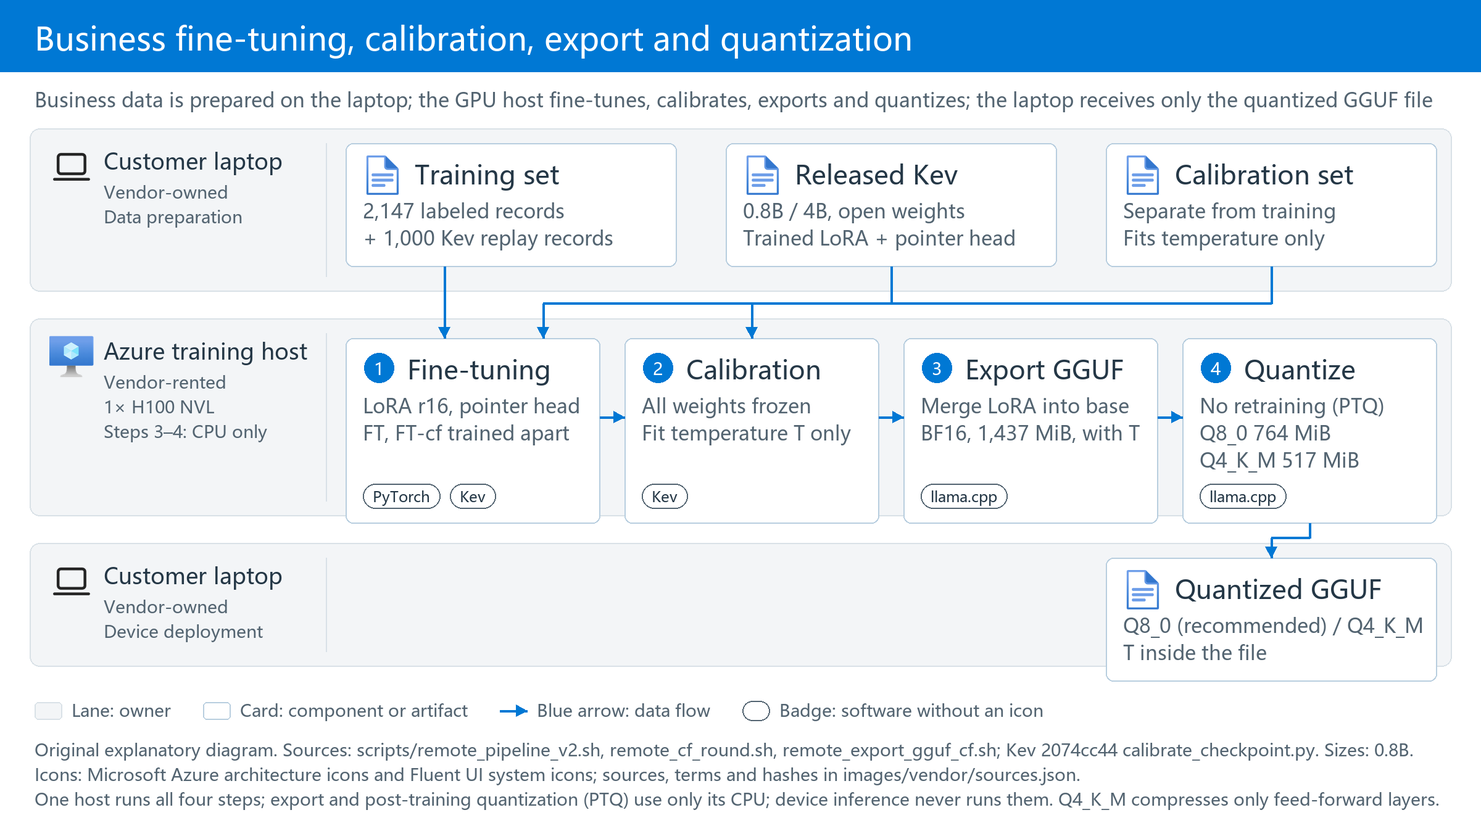
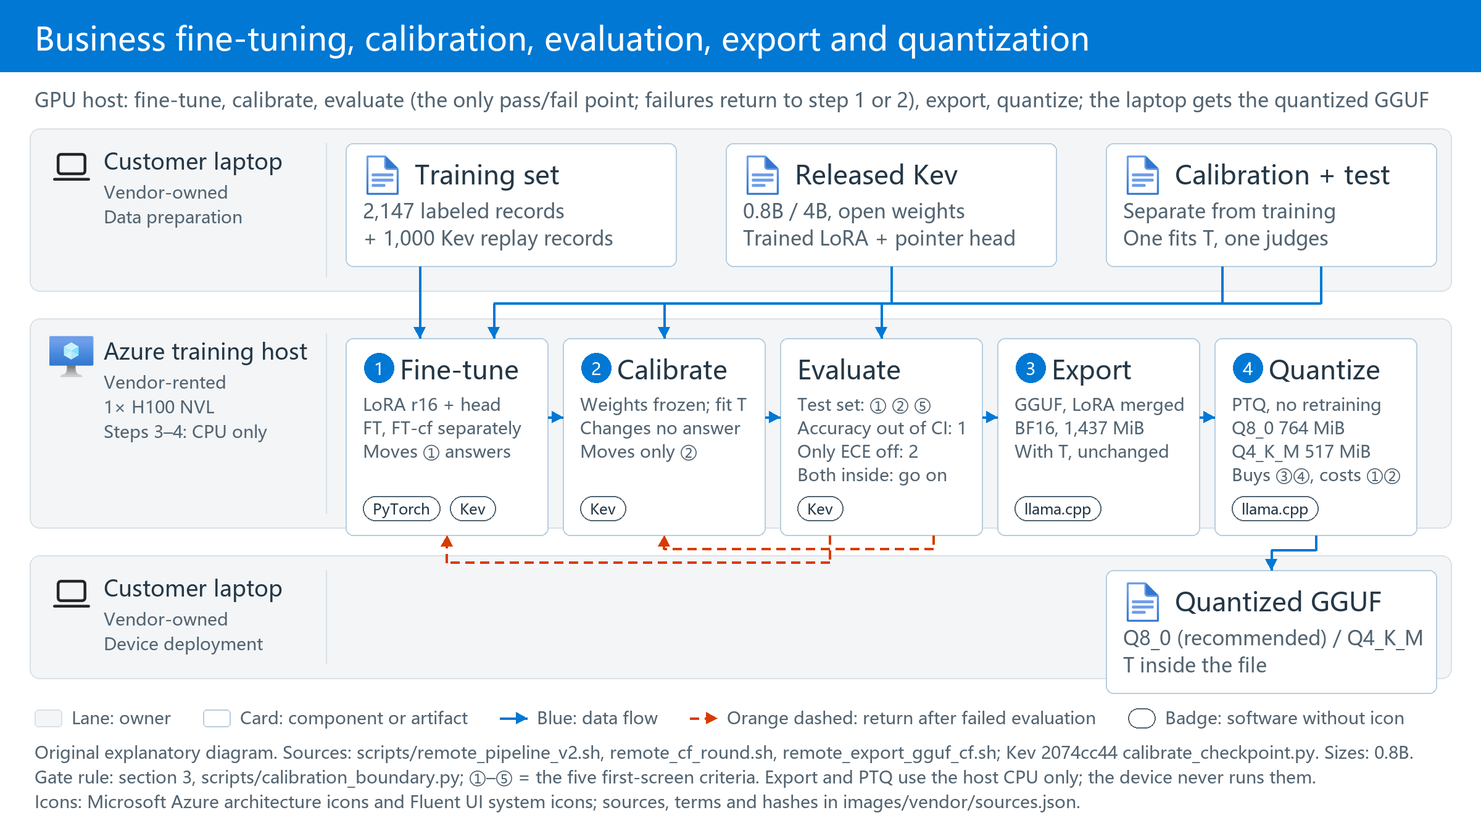
AIPC-Decision-Model-Finetune: training diagram shows the evaluation gate and its two return paths
- images/training(-en).png: between step 2 (calibration) and step 3 (export) an unnumbered
  'Evaluation gate' card measures criteria 1, 2 and 5 on the test set; orange dashed exits
  return to step 1 (accuracy outside its interval -> retrain) or step 2 (only probabilities
  off -> refit T); the blue path continues only when both are inside. Calibration itself has
  no pass/fail. Step cards name the criterion each moves; five 164 px cards, compact font.
- render_diagrams.py: dashed arrows, compact card variant, legend entry for return paths.
- README (CN/EN): first-section paragraph, alt text and caption describe the gate; four
  numbered steps unchanged. Other diagrams byte-identical.

diff --git a/Deep-Learning/AIPC-Decision-Model-Finetune/scripts/render_diagrams.py b/Deep-Learning/AIPC-Decision-Model-Finetune/scripts/render_diagrams.py
@@ -89,10 +89,12 @@ class Diagram:
             self.text((x, top + 42 + 20 * index), line, self.small_font, OWNER_DIVIDER - 8 - x, MUTED)
         self.draw.line([self.point(OWNER_DIVIDER, top + 12), self.point(OWNER_DIVIDER, bottom - 12)], fill=GREY, width=self.s)
 
-    def card(self, left, top, title, detail="", icon=None, badges=(), step=None, width=CARD_WIDTH, height=None, muted=False):
-        """One component or artifact: white card, optional ledgered icon or step number, one or two detail lines, text badges."""
+    def card(self, left, top, title, detail="", icon=None, badges=(), step=None, width=CARD_WIDTH, height=None, muted=False, compact=False):
+        """One component or artifact: white card, optional ledgered icon or step number, one or two detail lines, text badges.
+        compact=True sets detail lines in the 14 px small font at 19 px leading, for narrow cards (five across a lane)."""
         lines = [line for line in detail.split("\n") if line]
-        height = height or 56 + 22 * len(lines) + (28 if badges else 0)
+        detail_font, leading = (self.small_font, 19) if compact else (self.detail_font, 22)
+        height = height or 56 + leading * len(lines) + (28 if badges else 0)
         outline = GREY if muted else CARD_LINE
         self.draw.rounded_rectangle(self.box(left, top, left + width, top + height), radius=6 * self.s, fill="white", outline=outline, width=self.s)
         x = left + 14
@@ -103,10 +105,10 @@ class Diagram:
             cx, cy, r = left + 27, top + 24, 12
             self.draw.ellipse(self.box(cx - r, cy - r, cx + r, cy + r), fill=BLUE)
             self.draw.text(self.point(cx - self.width_of(step, self.small_font) / 2, cy - 9), step, font=self.small_font, fill="white")
-            x = left + 50
-        self.text((x, top + 11), title, self.node_font, left + width - x - 10, MUTED if muted else INK)
+            x = left + (44 if compact else 50)
+        self.text((x, top + 11), title, self.node_font, left + width - x - (6 if compact else 10), MUTED if muted else INK)
         for index, line in enumerate(lines):
-            self.text((left + 14, top + 44 + 22 * index), line, self.detail_font, width - 24, MUTED)
+            self.text((left + 14, top + 44 + leading * index), line, detail_font, width - 24, MUTED)
         bx, by = left + 14, top + height - 32
         for badge in badges:
             bw = self.width_of(badge, self.badge_font) + 16
@@ -115,9 +117,20 @@ class Diagram:
             bx += bw + 8
         return (left, top, left + width, top + height)
 
-    def arrow(self, points, color=BLUE, head=True):
+    def arrow(self, points, color=BLUE, head=True, dashed=False):
         scaled = [self.point(*point) for point in points]
-        self.draw.line(scaled, fill=color, width=2 * self.s, joint="curve")
+        if dashed:
+            dash, gap = 7 * self.s, 5 * self.s
+            for (x0, y0), (x1, y1) in zip(scaled, scaled[1:]):
+                length = math.hypot(x1 - x0, y1 - y0)
+                ux, uy = ((x1 - x0) / length, (y1 - y0) / length) if length else (0, 0)
+                run = 0
+                while run < length:
+                    stop = min(run + dash, length)
+                    self.draw.line([(x0 + ux * run, y0 + uy * run), (x0 + ux * stop, y0 + uy * stop)], fill=color, width=2 * self.s)
+                    run = stop + gap
+        else:
+            self.draw.line(scaled, fill=color, width=2 * self.s, joint="curve")
         if head:
             previous, end = scaled[-2:]
             angle = math.atan2(end[1] - previous[1], end[0] - previous[0])
@@ -126,7 +139,7 @@ class Diagram:
             self.draw.polygon(triangle, fill=color)
 
     def legend(self, top, items):
-        """items: (kind, label) with kind in lane | card | arrow | score | read | badge."""
+        """items: (kind, label) with kind in lane | card | arrow | score | read | back | badge."""
         x = 28
         for kind, label in items:
             if kind == "lane":
@@ -135,6 +148,8 @@ class Diagram:
                 self.draw.rounded_rectangle(self.box(x, top + 3, x + 22, top + 17), radius=3 * self.s, fill="white", outline=CARD_LINE, width=self.s)
             elif kind == "badge":
                 self.draw.rounded_rectangle(self.box(x, top + 2, x + 22, top + 18), radius=8 * self.s, fill="white", outline=MUTED, width=self.s)
+            elif kind == "back":
+                self.arrow([(x, top + 10), (x + 22, top + 10)], color=READ, dashed=True)
             else:
                 self.arrow([(x, top + 10), (x + 22, top + 10)], color={"score": SCORE_GREY, "read": READ}.get(kind, BLUE))
             self.text((x + 30, top), label, self.small_font, 360, MUTED)
@@ -166,41 +181,53 @@ ICON_NOTE = ("图标：Microsoft Azure 架构图标与 Fluent UI 系统图标，
 
 
 def training(font_path, language="zh"):
-    """Four numbered steps on the GPU host: supervised fine-tuning -> temperature calibration -> GGUF export (BF16) ->
-    post-training quantization (Q8_0 / Q4_K_M). Only the quantized file reaches the laptop.
-    Facts: scripts/remote_pipeline_v2.sh, remote_cf_round.sh, remote_export_gguf_cf.sh; sizes from 验证结果/微调评测_20261027-220226/gguf/0.8b-cf."""
+    """Four numbered steps on the GPU host: supervised fine-tuning -> temperature calibration -> [evaluation gate] ->
+    GGUF export (BF16) -> post-training quantization (Q8_0 / Q4_K_M). The unnumbered evaluation card is the only
+    pass/fail point: its dashed exits return to step 1 (accuracy fell out of its interval) or step 2 (probabilities
+    off, answers fine). Only the quantized file reaches the laptop.
+    Facts: scripts/remote_pipeline_v2.sh, remote_cf_round.sh, remote_export_gguf_cf.sh; sizes from 验证结果/微调评测_20261027-220226/gguf/0.8b-cf;
+    gate rule from README section 3 / scripts/calibration_boundary.py."""
     label = lambda chinese, english: english if language == "en" else chinese
-    d = Diagram(label("业务微调、校准、导出与量化", "Business fine-tuning, calibration, export and quantization"),
-                label("业务数据在笔记本准备；GPU 主机依次完成微调、校准、导出和量化；笔记本只拿到量化后的 GGUF 文件", "Business data is prepared on the laptop; the GPU host fine-tunes, calibrates, exports and quantizes; the laptop receives only the quantized GGUF file"), font_path)
+    d = Diagram(label("业务微调、校准、评测、导出与量化", "Business fine-tuning, calibration, evaluation, export and quantization"),
+                label("GPU 主机依次微调、校准；评测是唯一判定点，不过回第 1 或第 2 步，通过才导出、量化；笔记本只拿到量化后的 GGUF",
+                      "GPU host: fine-tune, calibrate, evaluate (the only pass/fail point; failures return to step 1 or 2), export, quantize; the laptop gets the quantized GGUF"), font_path)
     c1, c2, c3 = CARD_LEFT, CARD_LEFT + CARD_STEP, CARD_LEFT + 2 * CARD_STEP
     d.lane(104, 236, label("客户笔记本", "Customer laptop"), label("厂商所有\n数据准备", "Vendor-owned\nData preparation"), icon="laptop")
     d.card(c1, 116, label("业务训练集", "Training set"), label("标注样本 2,147 条\n+ 1,000 条 Kev 回放", "2,147 labeled records\n+ 1,000 Kev replay records"), icon="file")
     d.card(c2, 116, label("Kev 发布版", "Released Kev"), label("0.8B / 4B，开放权重\n已训练的 LoRA + 指针头", "0.8B / 4B, open weights\nTrained LoRA + pointer head"), icon="file")
-    d.card(c3, 116, label("校准集", "Calibration set"), label("与训练样本分开\n只用于拟合温度", "Separate from training\nFits temperature only"), icon="file")
-    # four equal steps in the host lane: 4 x 206 px cards with 20 px gaps fill CARD_LEFT..LANE_RIGHT-16 (280..1160)
-    sw, sg, sh = 206, 20, 150   # equal card height: three detail lines + one badge row
-    s1, s2, s3, s4 = (CARD_LEFT + index * (sw + sg) for index in range(4))
-    d.lane(258, 418, label("Azure 训练主机", "Azure training host"), label("厂商租用\n1× H100 NVL\n3–4 只用 CPU", "Vendor-rented\n1× H100 NVL\nSteps 3–4: CPU only"), icon="azure-vm")
-    d.card(s1, 274, label("监督微调", "Fine-tuning"), label("LoRA r16 + 指针头\nFT 与 FT-cf 独立训练", "LoRA r16, pointer head\nFT, FT-cf trained apart"), step="1", width=sw, height=sh, badges=("PyTorch", "Kev"))
-    d.card(s2, 274, label("温度校准", "Calibration"), label("固定全部权重\n只拟合温度 T", "All weights frozen\nFit temperature T only"), step="2", width=sw, height=sh, badges=("Kev",))
-    d.card(s3, 274, label("导出 GGUF", "Export GGUF"), label("合并 LoRA 进基座\nBF16，1,437 MiB，含 T", "Merge LoRA into base\nBF16, 1,437 MiB, with T"), step="3", width=sw, height=sh, badges=("llama.cpp",))
-    d.card(s4, 274, label("量化", "Quantize"), label("训练后量化，不重训\nQ8_0 764 MiB\nQ4_K_M 517 MiB", "No retraining (PTQ)\nQ8_0 764 MiB\nQ4_K_M 517 MiB"), step="4", width=sw, height=sh, badges=("llama.cpp",))
-    d.lane(440, 540, label("客户笔记本", "Customer laptop"), label("厂商所有\n端侧部署", "Vendor-owned\nDevice deployment"), icon="laptop")
-    d.card(c3, 452, label("量化后的 GGUF", "Quantized GGUF"), label("Q8_0（推荐）/ Q4_K_M\n温度在文件内", "Q8_0 (recommended) / Q4_K_M\nT inside the file"), icon="file")
+    d.card(c3, 116, label("校准集 + 测试集", "Calibration + test"), label("与训练样本分开\n校准集拟 T，测试集验收", "Separate from training\nOne fits T, one judges"), icon="file")
+    # five equal cards in the host lane: 5 x 164 px with 12 px gaps fill CARD_LEFT..LANE_RIGHT-16 (280..1160); compact detail font
+    sw, sg, sh = 164, 12, 160   # equal card height: four compact detail lines + one badge row
+    s1, s2, s3, s4, s5 = (CARD_LEFT + index * (sw + sg) for index in range(5))
+    d.lane(258, 428, label("Azure 训练主机", "Azure training host"), label("厂商租用\n1× H100 NVL\n3–4 只用 CPU", "Vendor-rented\n1× H100 NVL\nSteps 3–4: CPU only"), icon="azure-vm")
+    d.card(s1, 274, label("监督微调", "Fine-tune"), label("LoRA r16 + 指针头\nFT / FT-cf 独立训练\n推动 ① 答案对不对", "LoRA r16 + head\nFT, FT-cf separately\nMoves ① answers"), step="1", width=sw, height=sh, badges=("PyTorch", "Kev"), compact=True)
+    d.card(s2, 274, label("温度校准", "Calibrate"), label("权重不动，只拟一个 T\n不改任何一题答案\n只动 ② 把握真不真", "Weights frozen; fit T\nChanges no answer\nMoves only ②"), step="2", width=sw, height=sh, badges=("Kev",), compact=True)
+    d.card(s3, 274, label("评测验收", "Evaluate"), label("测试集量 ① ② ⑤\n准确率掉出区间→回 1\n只有概率偏差 → 回 2\n都在区间内 → 往下", "Test set: ① ② ⑤\nAccuracy out of CI: 1\nOnly ECE off: 2\nBoth inside: go on"), width=sw, height=sh, badges=("Kev",), compact=True)
+    d.card(s4, 274, label("导出 GGUF", "Export"), label("合并 LoRA 进基座\nBF16，1,437 MiB\n含 T，不改任何值", "GGUF, LoRA merged\nBF16, 1,437 MiB\nWith T, unchanged"), step="3", width=sw, height=sh, badges=("llama.cpp",), compact=True)
+    d.card(s5, 274, label("量化", "Quantize"), label("训练后量化，不重训\nQ8_0 764 MiB\nQ4_K_M 517 MiB\n换 ③④，付一点 ①②", "PTQ, no retraining\nQ8_0 764 MiB\nQ4_K_M 517 MiB\nBuys ③④, costs ①②"), step="4", width=sw, height=sh, badges=("llama.cpp",), compact=True)
+    d.lane(450, 550, label("客户笔记本", "Customer laptop"), label("厂商所有\n端侧部署", "Vendor-owned\nDevice deployment"), icon="laptop")
+    d.card(c3, 462, label("量化后的 GGUF", "Quantized GGUF"), label("Q8_0（推荐）/ Q4_K_M\n温度在文件内", "Q8_0 (recommended) / Q4_K_M\nT inside the file"), icon="file")
     mid2, mid3 = c2 + CARD_WIDTH / 2, c3 + CARD_WIDTH / 2
-    d.arrow([(c1 + 80, 216), (c1 + 80, 274)])                                      # training set -> fine-tuning
-    d.arrow([(mid2, 216), (mid2, 246), (c1 + 160, 246), (c1 + 160, 274)])          # released Kev -> fine-tuning (--init_from)
-    d.arrow([(mid3, 216), (mid3, 246), (s2 + sw / 2, 246), (s2 + sw / 2, 274)])    # calibration set -> calibration
+    d.arrow([(c1 + 60, 216), (c1 + 60, 274)])                                      # training set -> fine-tuning
+    d.arrow([(mid2, 216), (mid2, 246), (c1 + 120, 246), (c1 + 120, 274)])          # released Kev -> fine-tuning (--init_from)
+    d.arrow([(mid3 - 40, 216), (mid3 - 40, 246), (s2 + sw / 2, 246), (s2 + sw / 2, 274)])   # calibration set -> calibration
+    d.arrow([(mid3 + 40, 216), (mid3 + 40, 246), (s3 + sw / 2, 246), (s3 + sw / 2, 274)])   # test set -> evaluation gate
     d.arrow([(s1 + sw, 338), (s2, 338)])
     d.arrow([(s2 + sw, 338), (s3, 338)])
     d.arrow([(s3 + sw, 338), (s4, 338)])
-    d.arrow([(s4 + sw / 2, 274 + sh), (s4 + sw / 2, 436), (mid3, 436), (mid3, 452)])  # quantized file -> laptop
-    d.legend(566, legend_items(label))
-    d.footnote(598, label("原创解释图。依据：scripts/remote_pipeline_v2.sh、remote_cf_round.sh、remote_export_gguf_cf.sh，Kev commit 2074cc44 的 calibrate_checkpoint.py；大小为 0.8B FT-cf。",
+    d.arrow([(s4 + sw, 338), (s5, 338)])
+    bottom = 274 + sh
+    d.arrow([(s3 + 40, bottom), (s3 + 40, bottom + 22), (s1 + sw / 2, bottom + 22), (s1 + sw / 2, bottom)], color=READ, dashed=True)   # accuracy fell -> retrain
+    d.arrow([(s3 + sw - 40, bottom), (s3 + sw - 40, bottom + 11), (s2 + sw / 2, bottom + 11), (s2 + sw / 2, bottom)], color=READ, dashed=True)   # probabilities off -> refit T
+    d.arrow([(s5 + sw / 2, bottom), (s5 + sw / 2, 446), (mid3, 446), (mid3, 462)])  # quantized file -> laptop
+    d.legend(572, [("lane", label("泳道：归属方", "Lane: owner")), ("card", label("卡片：组件或产物", "Card: component or artifact")),
+                   ("arrow", label("蓝色：数据流", "Blue: data flow")), ("back", label("橙色虚线：评测不通过时回到的步骤", "Orange dashed: return after failed evaluation")),
+                   ("badge", label("徽章：无图标的软件", "Badge: software without icon"))])
+    d.footnote(600, label("原创解释图。依据：scripts/remote_pipeline_v2.sh、remote_cf_round.sh、remote_export_gguf_cf.sh，Kev 2074cc44 calibrate_checkpoint.py；大小为 0.8B FT-cf。",
                           "Original explanatory diagram. Sources: scripts/remote_pipeline_v2.sh, remote_cf_round.sh, remote_export_gguf_cf.sh; Kev 2074cc44 calibrate_checkpoint.py. Sizes: 0.8B."),
-               label(*ICON_NOTE),
-               label("四步都在同一主机完成，导出和量化只用它的 CPU；端侧推理不会触发这些步骤。Q4_K_M 只压前馈层，注意力、DeltaNet 和指针头保持 8 bit。",
-                     "One host runs all four steps; export and post-training quantization (PTQ) use only its CPU; device inference never runs them. Q4_K_M compresses only feed-forward layers."))
+               label("评测验收的判定规则和门槛见第 3 节与 scripts/calibration_boundary.py；①–⑤ 指首屏的五项标准。导出和量化只用主机 CPU；端侧推理不触发这些步骤。Q4_K_M 只压前馈层。",
+                     "Gate rule: section 3, scripts/calibration_boundary.py; ①–⑤ = the five first-screen criteria. Export and PTQ use the host CPU only; the device never runs them."),
+               label(*ICON_NOTE))
     return d
 
 

diff --git a/Deep-Learning/AIPC-Decision-Model-Finetune/README.md b/Deep-Learning/AIPC-Decision-Model-Finetune/README.md
@@ -26,11 +26,11 @@ Four recipes are compared throughout; their names are fixed here. **B0** is the 
 
 #### 1. Fine-Tune, Calibrate, Export, Quantize: Business Data to a Model File
 
-Data preparation scripts run on the laptop. Large models A and B only help write simulated customer messages; business-policy code computes the labels. Neither generator is the Kev model being fine-tuned, and neither participates in subsequent device inference. The GPU host runs four steps in order: (1) supervised fine-tuning, which trains only the LoRA adapters and the pointer head; (2) temperature calibration, which leaves the weights unchanged and fits one scalar; (3) GGUF export, which merges the LoRA into the base in BF16; (4) quantization to Q8_0 or Q4_K_M. Steps 3 and 4 use only that host's CPU. The product is one quantized GGUF file, the single-file model format used by llama.cpp, holding weights, tokenizer, pointer head and calibration temperature together; everything that runs on the laptop and every device figure below uses this quantized file.
+Data preparation scripts run on the laptop. Large models A and B only help write simulated customer messages; business-policy code computes the labels. Neither generator is the Kev model being fine-tuned, and neither participates in subsequent device inference. The GPU host runs four steps in order: (1) supervised fine-tuning, which trains only the LoRA adapters and the pointer head; (2) temperature calibration, which leaves the weights unchanged and fits one scalar; (3) GGUF export, which merges the LoRA into the base in BF16; (4) quantization to Q8_0 or Q4_K_M. Steps 3 and 4 use only that host's CPU. Between (2) and (3) sits one evaluation gate, the pipeline's only pass/fail point: it measures accuracy and probability error on the test set; accuracy outside its interval goes back to step (1) for more data and retraining, probability error alone goes back to step (2) to refit T, and only when both are inside does the pipeline continue (rule and thresholds in [section 3](#3-calibration-correct-ranking-does-not-guarantee-reliable-probabilities)). Calibration itself has no pass/fail; it always produces a T. The product is one quantized GGUF file, the single-file model format used by llama.cpp, holding weights, tokenizer, pointer head and calibration temperature together; everything that runs on the laptop and every device figure below uses this quantized file.
 
-<img src="images/training-en.png" width="900" alt="Fine-tuning, calibration, export and quantization: labeled business data and released Kev enter an Azure GPU training host; four numbered steps are supervised fine-tuning, temperature calibration, BF16 GGUF export and quantization to Q8_0 / Q4_K_M; the quantized GGUF goes to the customer laptop; three ownership lanes, a legend and source footnote.">
+<img src="images/training-en.png" width="900" alt="Fine-tuning, calibration, evaluation, export and quantization: labeled business data and released Kev enter an Azure GPU training host; four numbered steps are supervised fine-tuning, temperature calibration, BF16 GGUF export and quantization to Q8_0 / Q4_K_M; between calibration and export sits an unnumbered evaluation-gate card whose two orange dashed exits return to fine-tuning (accuracy out of its interval) and to calibration (probabilities off only); the quantized GGUF goes to the customer laptop; three ownership lanes, a legend and source footnote.">
 
-*Original explanatory diagram. Training data updates model parameters; a separate calibration set fits the probability temperature, the scaling factor applied when raw model scores become probabilities, explained in [section 3](#3-calibration-correct-ranking-does-not-guarantee-reliable-probabilities). Quantization is post-training and needs no retraining; the effect of each variant is in [section 5](#5-laptop-inference-engine). The laptop receives the quantized GGUF file. Sources: [FT pipeline](scripts/remote_pipeline_v2.sh), [FT-cf pipeline](scripts/remote_cf_round.sh), [export and quantization script](scripts/remote_export_gguf_cf.sh). Official Microsoft icon sources and usage terms are recorded in [the icon ledger](images/vendor/sources.json).*
+*Original explanatory diagram. Training data updates model parameters; a separate calibration set fits the probability temperature, the scaling factor applied when raw model scores become probabilities, explained in [section 3](#3-calibration-correct-ranking-does-not-guarantee-reliable-probabilities). The evaluation gate is the only pass/fail point; ① ② ⑤ on its card are [the five criteria on the first screen](#criteria). Quantization is post-training and needs no retraining; the effect of each variant is in [section 5](#5-laptop-inference-engine). The laptop receives the quantized GGUF file. Sources: [FT pipeline](scripts/remote_pipeline_v2.sh), [FT-cf pipeline](scripts/remote_cf_round.sh), [export and quantization script](scripts/remote_export_gguf_cf.sh). Official Microsoft icon sources and usage terms are recorded in [the icon ledger](images/vendor/sources.json).*
 
 #### 2. Device Inference: A Model File to a Business Decision
 

diff --git a/Deep-Learning/AIPC-Decision-Model-Finetune/README_CN.md b/Deep-Learning/AIPC-Decision-Model-Finetune/README_CN.md
@@ -26,11 +26,11 @@
 
 #### 1. 微调、校准、导出、量化：把业务数据变成模型文件
 
-数据准备脚本在笔记本上运行。大模型 A/B 只帮助生成模拟原话，标签由业务规则代码计算；它们既不是被微调的 Kev，也不参与后续端侧推理。GPU 主机上依次做四步：① 监督微调（只训 LoRA 和指针头）；② 温度校准（权重不动，只拟合一个标量）；③ 导出 GGUF（把 LoRA 合并进基座，BF16）；④ 量化成 Q8_0 或 Q4_K_M。后两步只用该主机的 CPU。产物是一个量化后的 GGUF 文件——llama.cpp 使用的单文件模型格式，权重、分词器、指针头和校准温度都在同一个文件里；笔记本上跑的、后面所有端侧数字测的，都是这个量化后的文件。
+数据准备脚本在笔记本上运行。大模型 A/B 只帮助生成模拟原话，标签由业务规则代码计算；它们既不是被微调的 Kev，也不参与后续端侧推理。GPU 主机上依次做四步：① 监督微调（只训 LoRA 和指针头）；② 温度校准（权重不动，只拟合一个标量）；③ 导出 GGUF（把 LoRA 合并进基座，BF16）；④ 量化成 Q8_0 或 Q4_K_M。后两步只用该主机的 CPU。② 和 ③ 之间有一次评测验收，它是整条流水线唯一的判定点：在测试集上量准确率和概率偏差，准确率掉出区间回第 ① 步补数据重训，只有概率偏差回第 ② 步重拟 T，都在区间内才往下走（规则和门槛见[第 3 节](#3-校准答案排名正确概率仍可能不准)）。校准本身没有“通过 / 不通过”，它永远产出一个 T。产物是一个量化后的 GGUF 文件——llama.cpp 使用的单文件模型格式，权重、分词器、指针头和校准温度都在同一个文件里；笔记本上跑的、后面所有端侧数字测的，都是这个量化后的文件。
 
-<img src="images/training.png" width="900" alt="微调、校准、导出与量化：带标签业务数据和 Kev 发布版进入 Azure GPU 训练主机，四个编号步骤依次是监督微调、温度校准、导出 BF16 GGUF、量化成 Q8_0 / Q4_K_M，量化后的 GGUF 交给客户笔记本；三条所有权泳道、图例和来源脚注。">
+<img src="images/training.png" width="900" alt="微调、校准、评测、导出与量化：带标签业务数据和 Kev 发布版进入 Azure GPU 训练主机，四个编号步骤依次是监督微调、温度校准、导出 BF16 GGUF、量化成 Q8_0 / Q4_K_M；校准与导出之间是无编号的评测验收卡，两条橙色虚线分别回到微调（准确率掉出区间）和校准（只有概率偏差）；量化后的 GGUF 交给客户笔记本；三条所有权泳道、图例和来源脚注。">
 
-*原创解释图。训练集更新参数，独立校准集拟合概率的温度（把模型原始分数变成概率时的缩放系数，详见[第 3 节](#3-校准答案排名正确概率仍可能不准)）；量化是训练后量化，不重训，各版本的效果在[第 5 节](#5-笔记本端推理引擎)；笔记本最终接收的是量化后的 GGUF 模型文件。依据：[FT 流水线](scripts/remote_pipeline_v2.sh)、[FT-cf 流水线](scripts/remote_cf_round.sh)、[导出与量化脚本](scripts/remote_export_gguf_cf.sh)。*
+*原创解释图。训练集更新参数，独立校准集拟合概率的温度（把模型原始分数变成概率时的缩放系数，详见[第 3 节](#3-校准答案排名正确概率仍可能不准)）；评测验收是唯一的判定点，卡上的 ①②⑤ 指[首屏的五项标准](#criteria)；量化是训练后量化，不重训，各版本的效果在[第 5 节](#5-笔记本端推理引擎)；笔记本最终接收的是量化后的 GGUF 模型文件。依据：[FT 流水线](scripts/remote_pipeline_v2.sh)、[FT-cf 流水线](scripts/remote_cf_round.sh)、[导出与量化脚本](scripts/remote_export_gguf_cf.sh)。*
 
 #### 2. 端侧推理：模型文件变成一次业务判断
 
